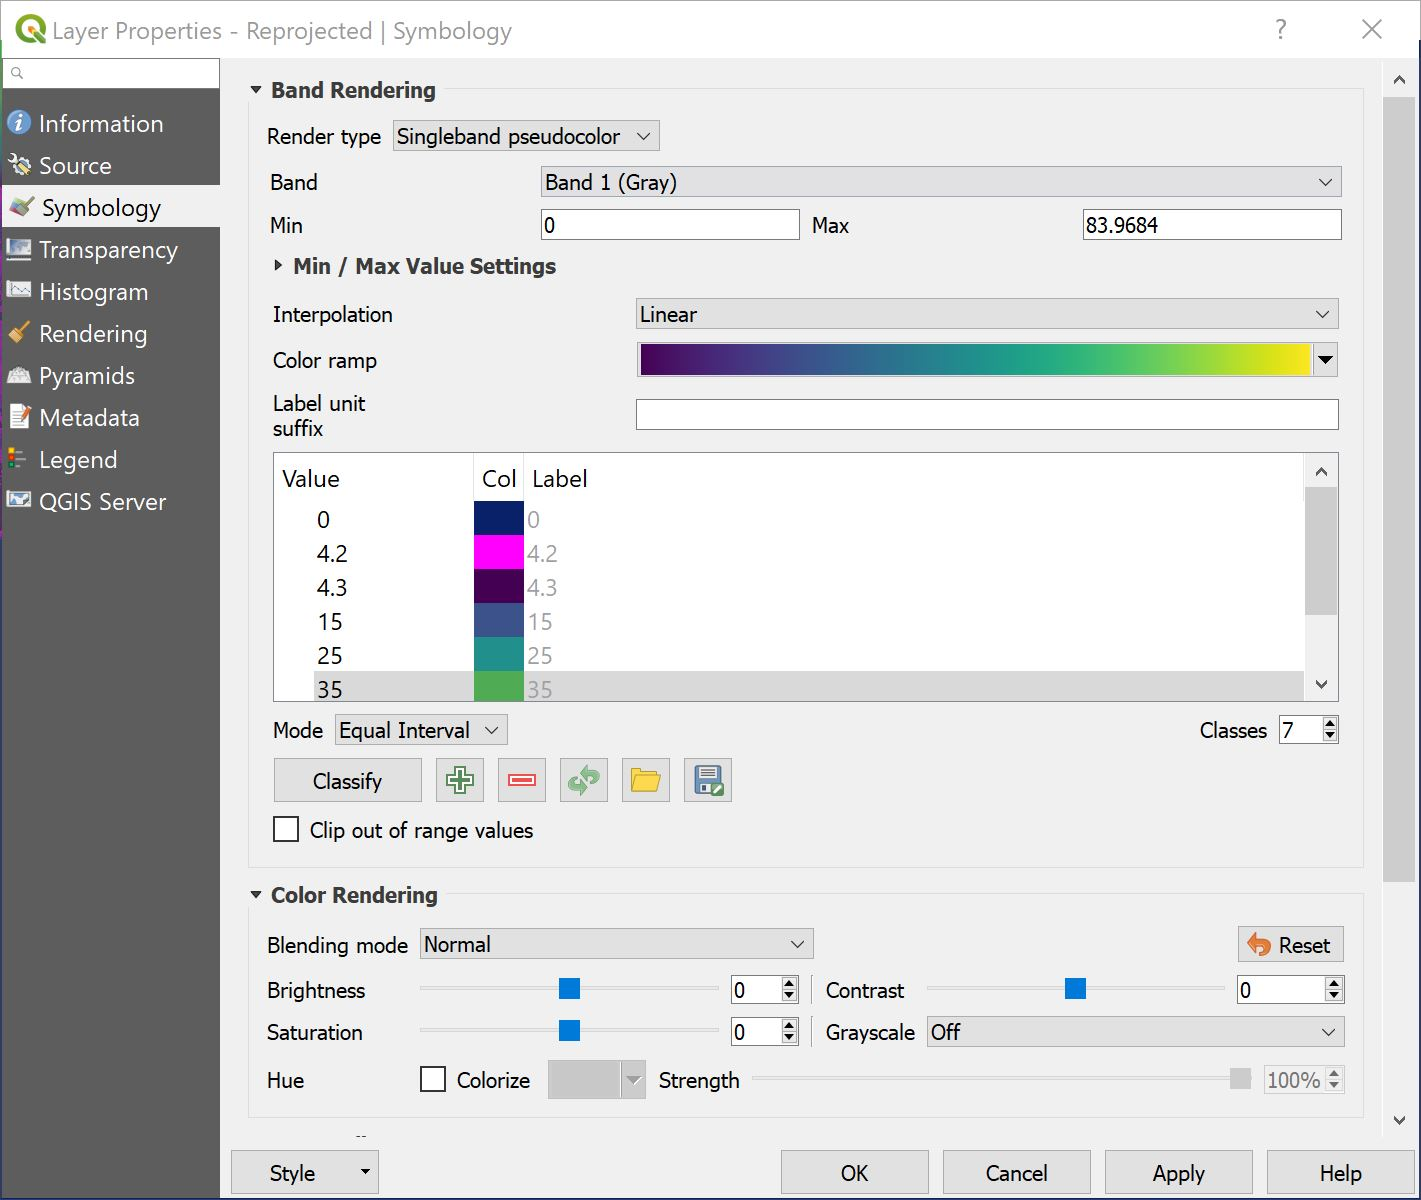
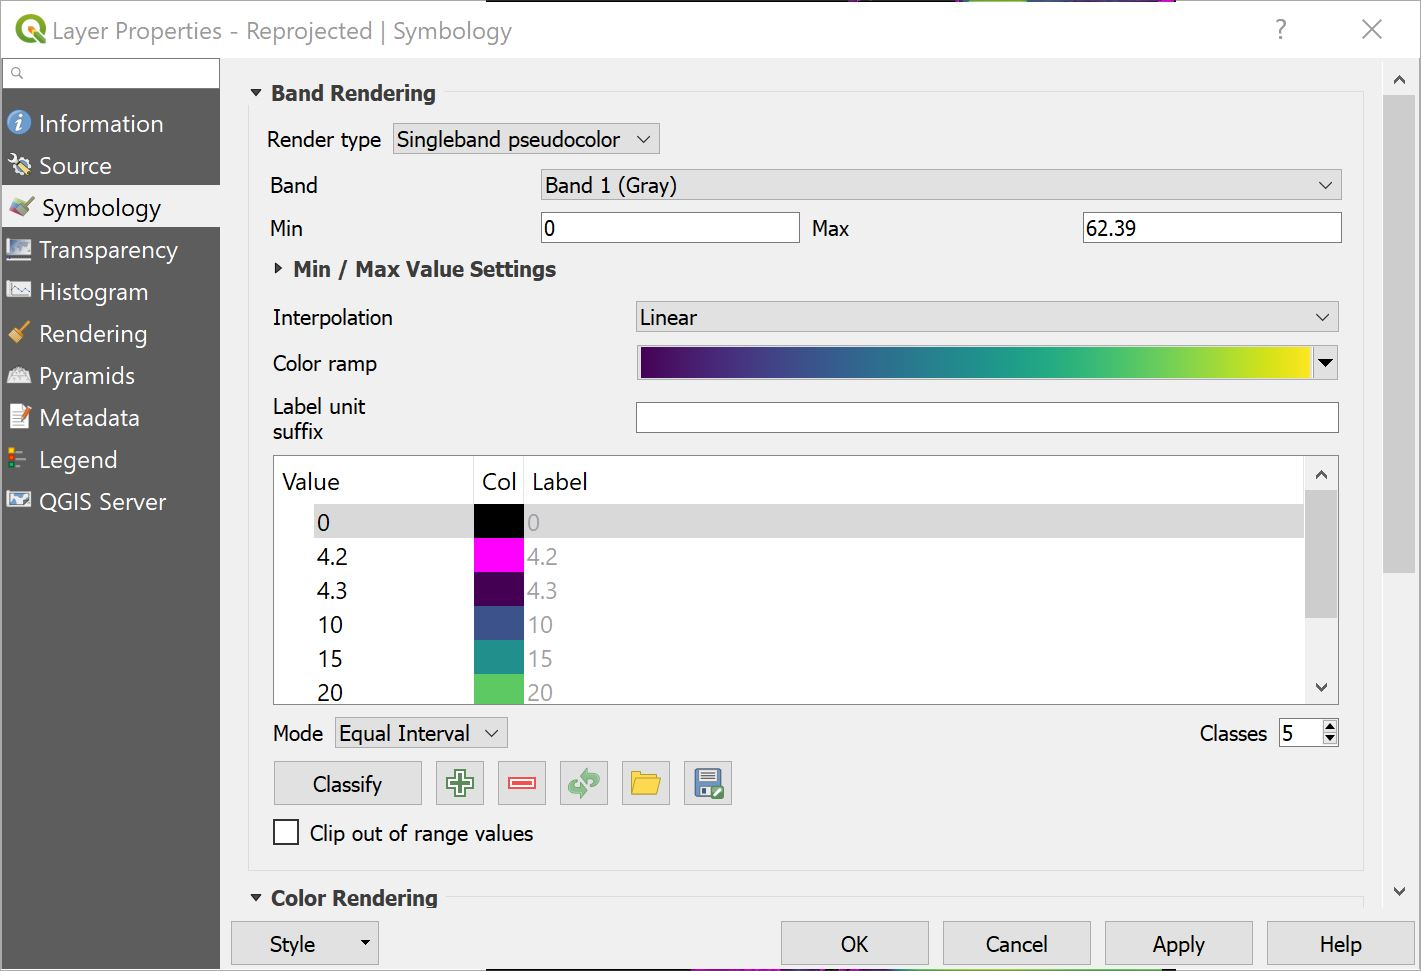
66778

diff --git a/_posts/2019-03-07-GIS_Workshop_Terrain_Modeling.md b/_posts/2019-03-07-GIS_Workshop_Terrain_Modeling.md
@@ -128,7 +128,7 @@ Before we move on, there is something you should double check. When we reproject
 
 
 ## Analysis
-Since the majority of the DEM file is very dark, we need to change the visualization so we see the landmass features easier. But before we correct this, we should dive into this issue a little bit since it is a common problem in GIS. 
+Since the majority of the DEM file is somewhat dark, we need to change the visualization so we see the landmass features easier. But before we correct this, we should dive into this issue a little bit since it is a common problem in GIS. 
 
 ### Channel and Bitdepth
 First thing we need to notice is the DEM file is a single channel 32-bit file. We can talk about this in 2 parts - channels and bit depth. Single channel image usually can be seen as black and white images, or one can also use it as false color images. 3 channel images are typically RGB, representing 3 different spectrum of light information. Although for other applications such as ecological studies, you can find NRG (infrarred, red, green) used to investigate plant health. You can also have 4 channel images such as RGBA, with A being the alpha channel indicating transparency. This is a relatively simple concept to grasp. 
@@ -148,14 +148,14 @@ What we can do to mitigate this situation is to remap color information to match
 ![qgis](../../../assets/images/GIS/pic_GIS_qgis_symbology01.JPG){:height="50%" width="50%"}
 ![qgis](../../../assets/images/GIS/pic_GIS_qgis_symbology02.JPG){:height="100%" width="100%"}
 
-We have just reproduced the black & white image with false color mapping. Notice the problem we have is due to the **Equal Interval** mapping because majority of NYC is below 20 meter. Now double click on the number under **Value**, change **20.0021 to 5**, **41.9841 to 10**, **62.9763 to 20**, click **OK** and you should see something like this.
+We have just reproduced the black & white image with false color mapping. Notice the problem we have is due to the **Equal Interval** mapping because majority of NYC is below 20 meter. Now double click on the number under **Value**, change **-17.12 to -2**, **3.68 to 0**, **24.48 to 10**, **45.27 to 20**, click **OK** and you should see something like this.
 
 ![qgis](../../../assets/images/GIS/pic_GIS_qgis_symbology03.JPG){:height="50%" width="50%"}
 ![qgis](../../../assets/images/GIS/pic_GIS_qgis_symbology04.JPG){:height="100%" width="100%"}
 
 What we have effectively done is to compress all the color variation to within 20 meters of elevation change. And this visualization technique can be expanded to indicate other information. Let's say during Storm Sandy in 2012, the storm surge in NYC is at 14'. So let's see if we can modify this visualization to show that.
 
-Back in **Symbology**, click the **Plus Sign** below **Equal Interval** twice to add two additional values. Storm Sandy's 14' storm surge is about 4.2 meter, so change one of the values to 4.2 and set it to a color that would create very high contrast. Set the other newly added value to 0 representing sea level. Adjust the rest of the false color mapping to 4.3, 15, 25, 35, and 83. And now you see the high contrast color would indicate flooding areas during Sandy's storm surge.
+Back in **Symbology**, click the **Plus Sign** below **Equal Interval** twice to add two additional values. Storm Sandy's 14' storm surge is about 4.2 meter, so change one of the values to 4.2 and set it to a color that would create very high contrast. Set the other newly added value to 0 representing sea level. Adjust the rest of the false color mapping to 4.3, 10, 15, 20, and 62. And now you see the high contrast color would indicate flooding areas during Sandy's storm surge.
 
 
 ![qgis](../../../assets/images/GIS/pic_GIS_qgis_symbology05.JPG){:height="50%" width="50%"}
